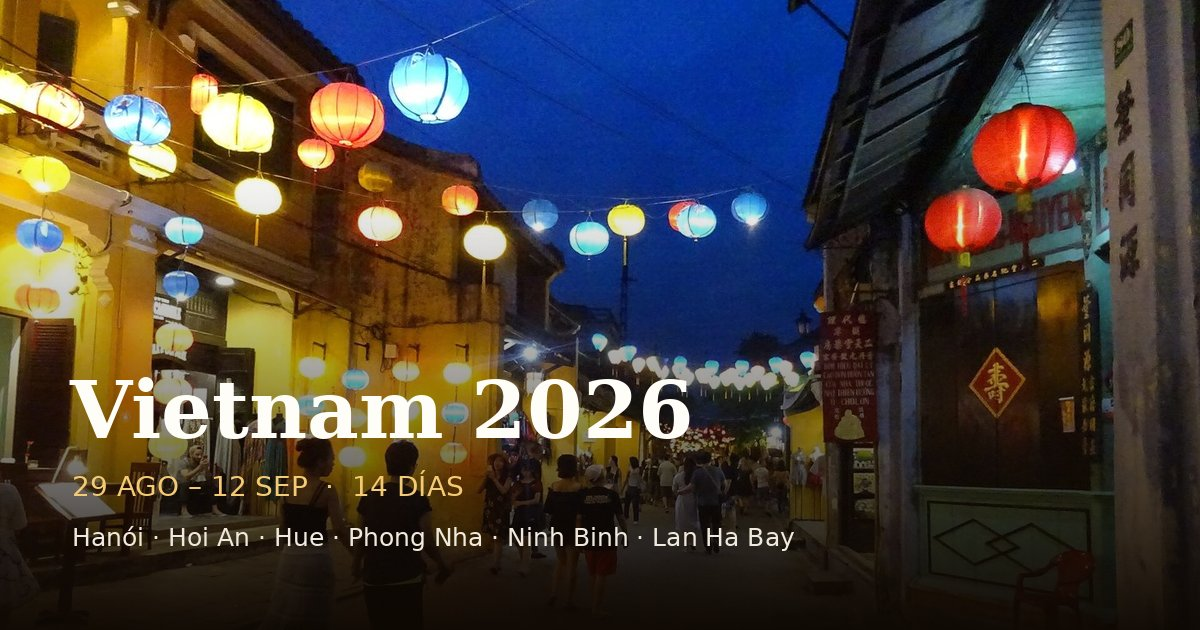
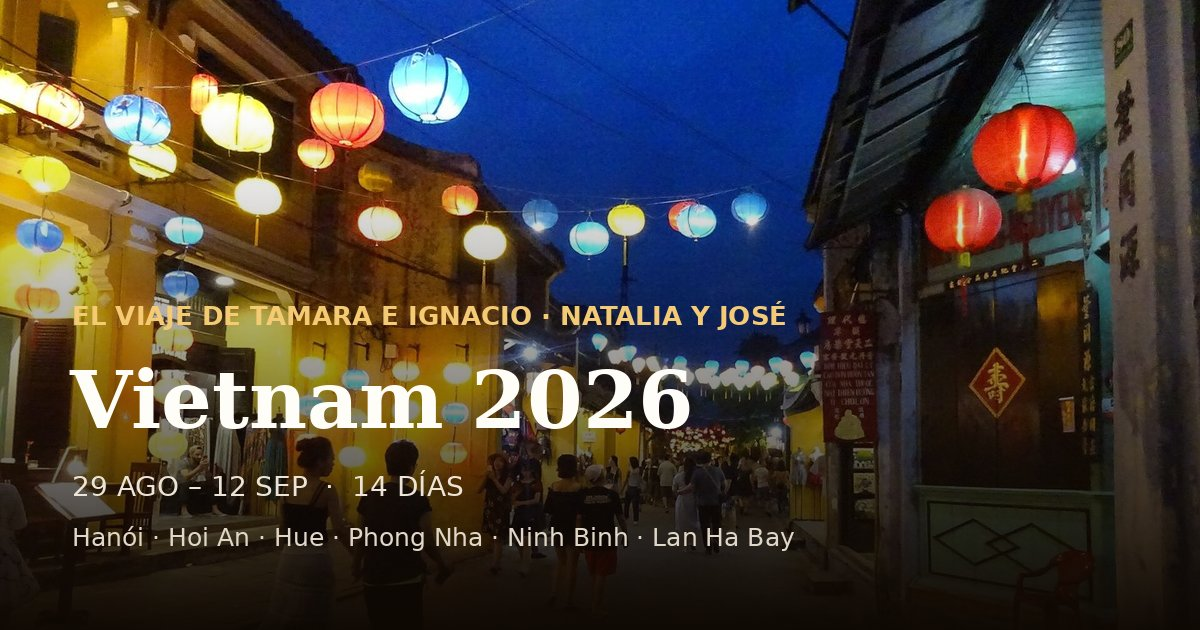
Portada y cabecera con los nombres de los viajeros

Changed region(s): [[0.0617, 0.573, 0.5858, 0.6937], [0.0617, 0.4825, 0.6783, 0.5429], [0.0617, 0.754, 0.4008, 0.7841]]

diff --git a/index.html b/index.html
@@ -11,8 +11,8 @@
 <meta property="og:site_name" content="Vietnam 2026">
 <meta property="og:locale" content="es_ES">
 <meta property="og:url" content="https://iaadileli.github.io/viaje-vietnam-2026/">
-<meta property="og:title" content="Vietnam 2026 · Hanói, Hoi An, Hue, Phong Nha, Ninh Binh y Lan Ha Bay">
-<meta property="og:description" content="Itinerario día a día, mapa del viaje, dónde comer en cada ciudad, hoteles y consejos prácticos. Del 29 de agosto al 12 de septiembre de 2026.">
+<meta property="og:title" content="Vietnam 2026 · el viaje de Tamara e Ignacio, Natalia y José">
+<meta property="og:description" content="Hanói, Hoi An, Hue, Phong Nha, Ninh Binh y Lan Ha Bay. Itinerario día a día, mapa, dónde comer en cada ciudad, hoteles y consejos prácticos. Del 29 de agosto al 12 de septiembre de 2026.">
 <meta property="og:image" content="https://iaadileli.github.io/viaje-vietnam-2026/img/portada.jpg">
 <meta property="og:image:secure_url" content="https://iaadileli.github.io/viaje-vietnam-2026/img/portada.jpg">
 <meta property="og:image:type" content="image/jpeg">
@@ -20,7 +20,7 @@
 <meta property="og:image:height" content="630">
 <meta property="og:image:alt" content="Calle de farolillos de Hoi An al anochecer">
 <meta name="twitter:card" content="summary_large_image">
-<meta name="twitter:title" content="Vietnam 2026 · Hanói, Hoi An, Hue, Phong Nha, Ninh Binh y Lan Ha Bay">
+<meta name="twitter:title" content="Vietnam 2026 · el viaje de Tamara e Ignacio, Natalia y José">
 <meta name="twitter:description" content="Itinerario día a día, mapa, dónde comer en cada ciudad, hoteles y consejos prácticos.">
 <meta name="twitter:image" content="https://iaadileli.github.io/viaje-vietnam-2026/img/portada.jpg">
 <style>
@@ -40,6 +40,8 @@
   .hero-inner{max-width:1050px;margin:0 auto;padding:60px 24px 48px;width:100%}
   .hero h1{font-size:clamp(2.4rem,6vw,4.2rem);font-weight:normal;letter-spacing:.5px;text-shadow:0 2px 12px rgba(0,0,0,.55)}
   .hero .fechas{font-family:-apple-system,'Segoe UI',sans-serif;font-size:1.02rem;letter-spacing:1.5px;text-transform:uppercase;opacity:.95;margin-top:10px}
+  .hero .viajeros{font-family:-apple-system,'Segoe UI',sans-serif;font-size:.9rem;font-weight:700;
+    letter-spacing:2px;text-transform:uppercase;color:#f4cb74;text-shadow:0 2px 10px rgba(0,0,0,.6);margin-bottom:10px}
   .hero .sub{margin-top:14px;font-style:italic;font-size:1.15rem;max-width:660px;opacity:.95}
 
   /* ---------- NAV ---------- */
@@ -269,6 +271,7 @@
 
 <header class="hero">
   <div class="hero-inner">
+    <div class="viajeros">El viaje de Tamara e Ignacio · Natalia y José</div>
     <div class="fechas">Salida de Madrid el 29 ago · en Vietnam del 30 ago al 12 sep de 2026 · 13 noches</div>
     <h1>Vietnam de norte a centro</h1>
     <p class="sub">Hanói, Hoi An, Hue, las cuevas de Phong Nha, los arrozales de Ninh Binh y un
